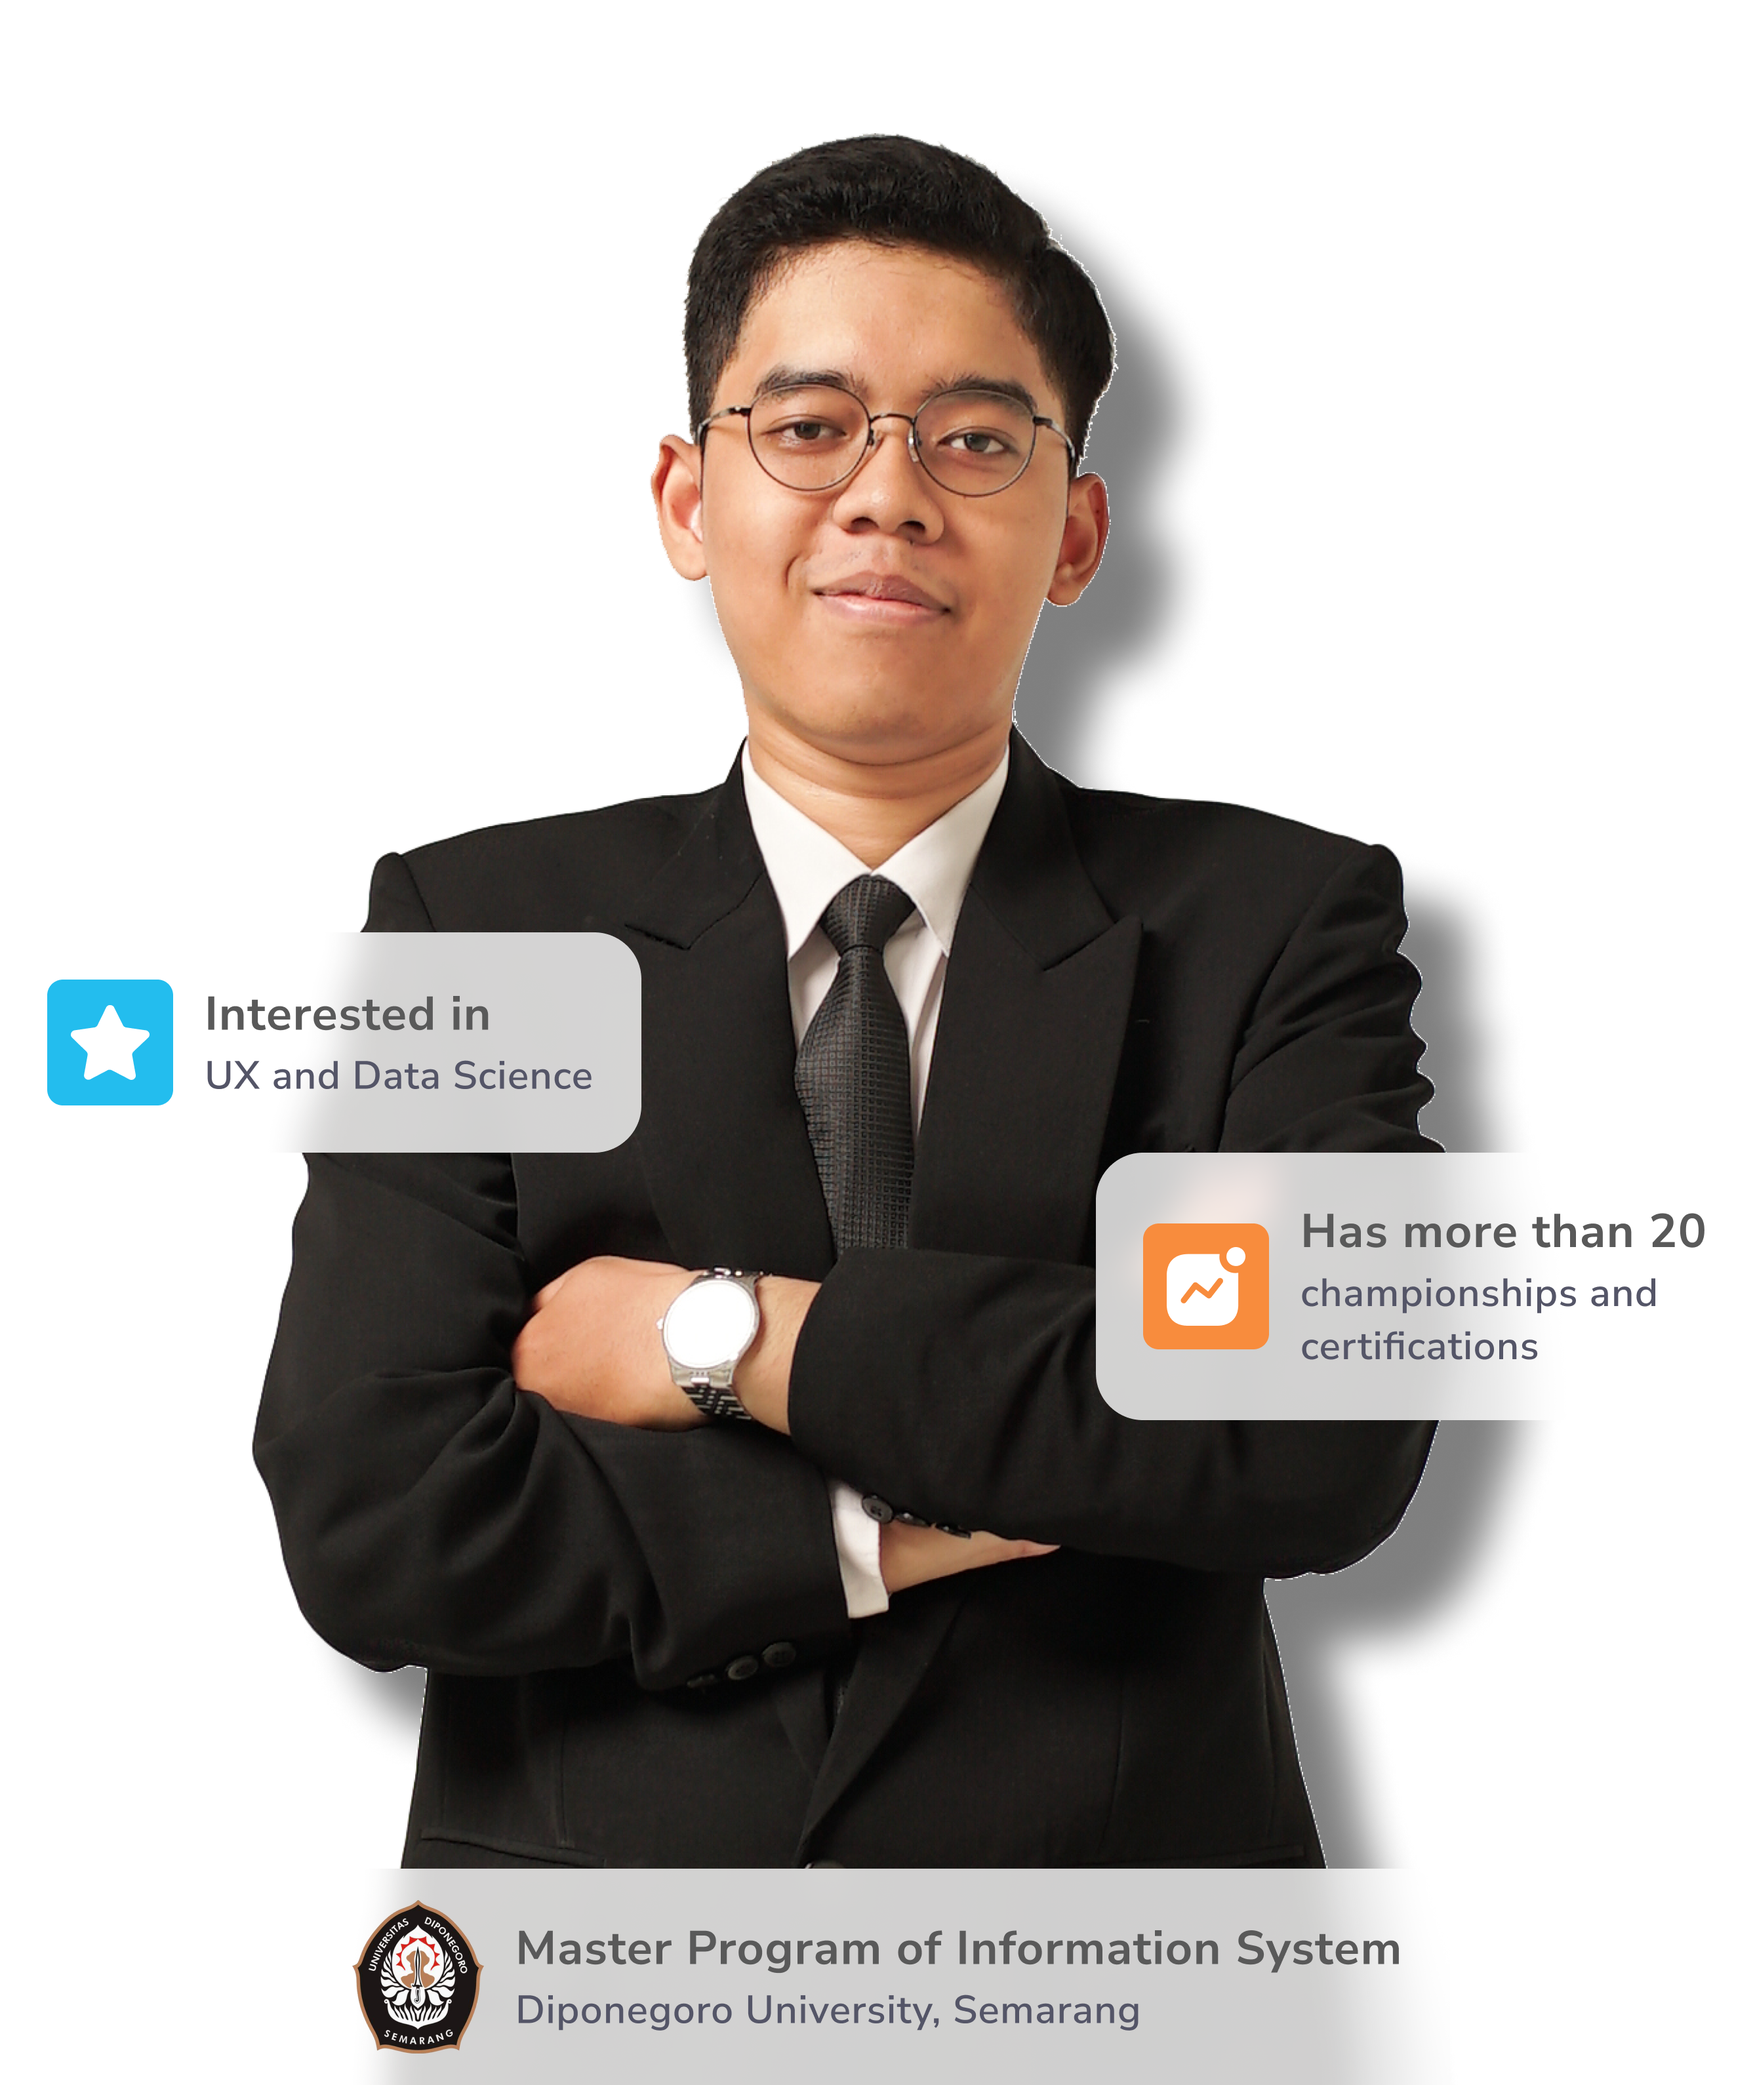
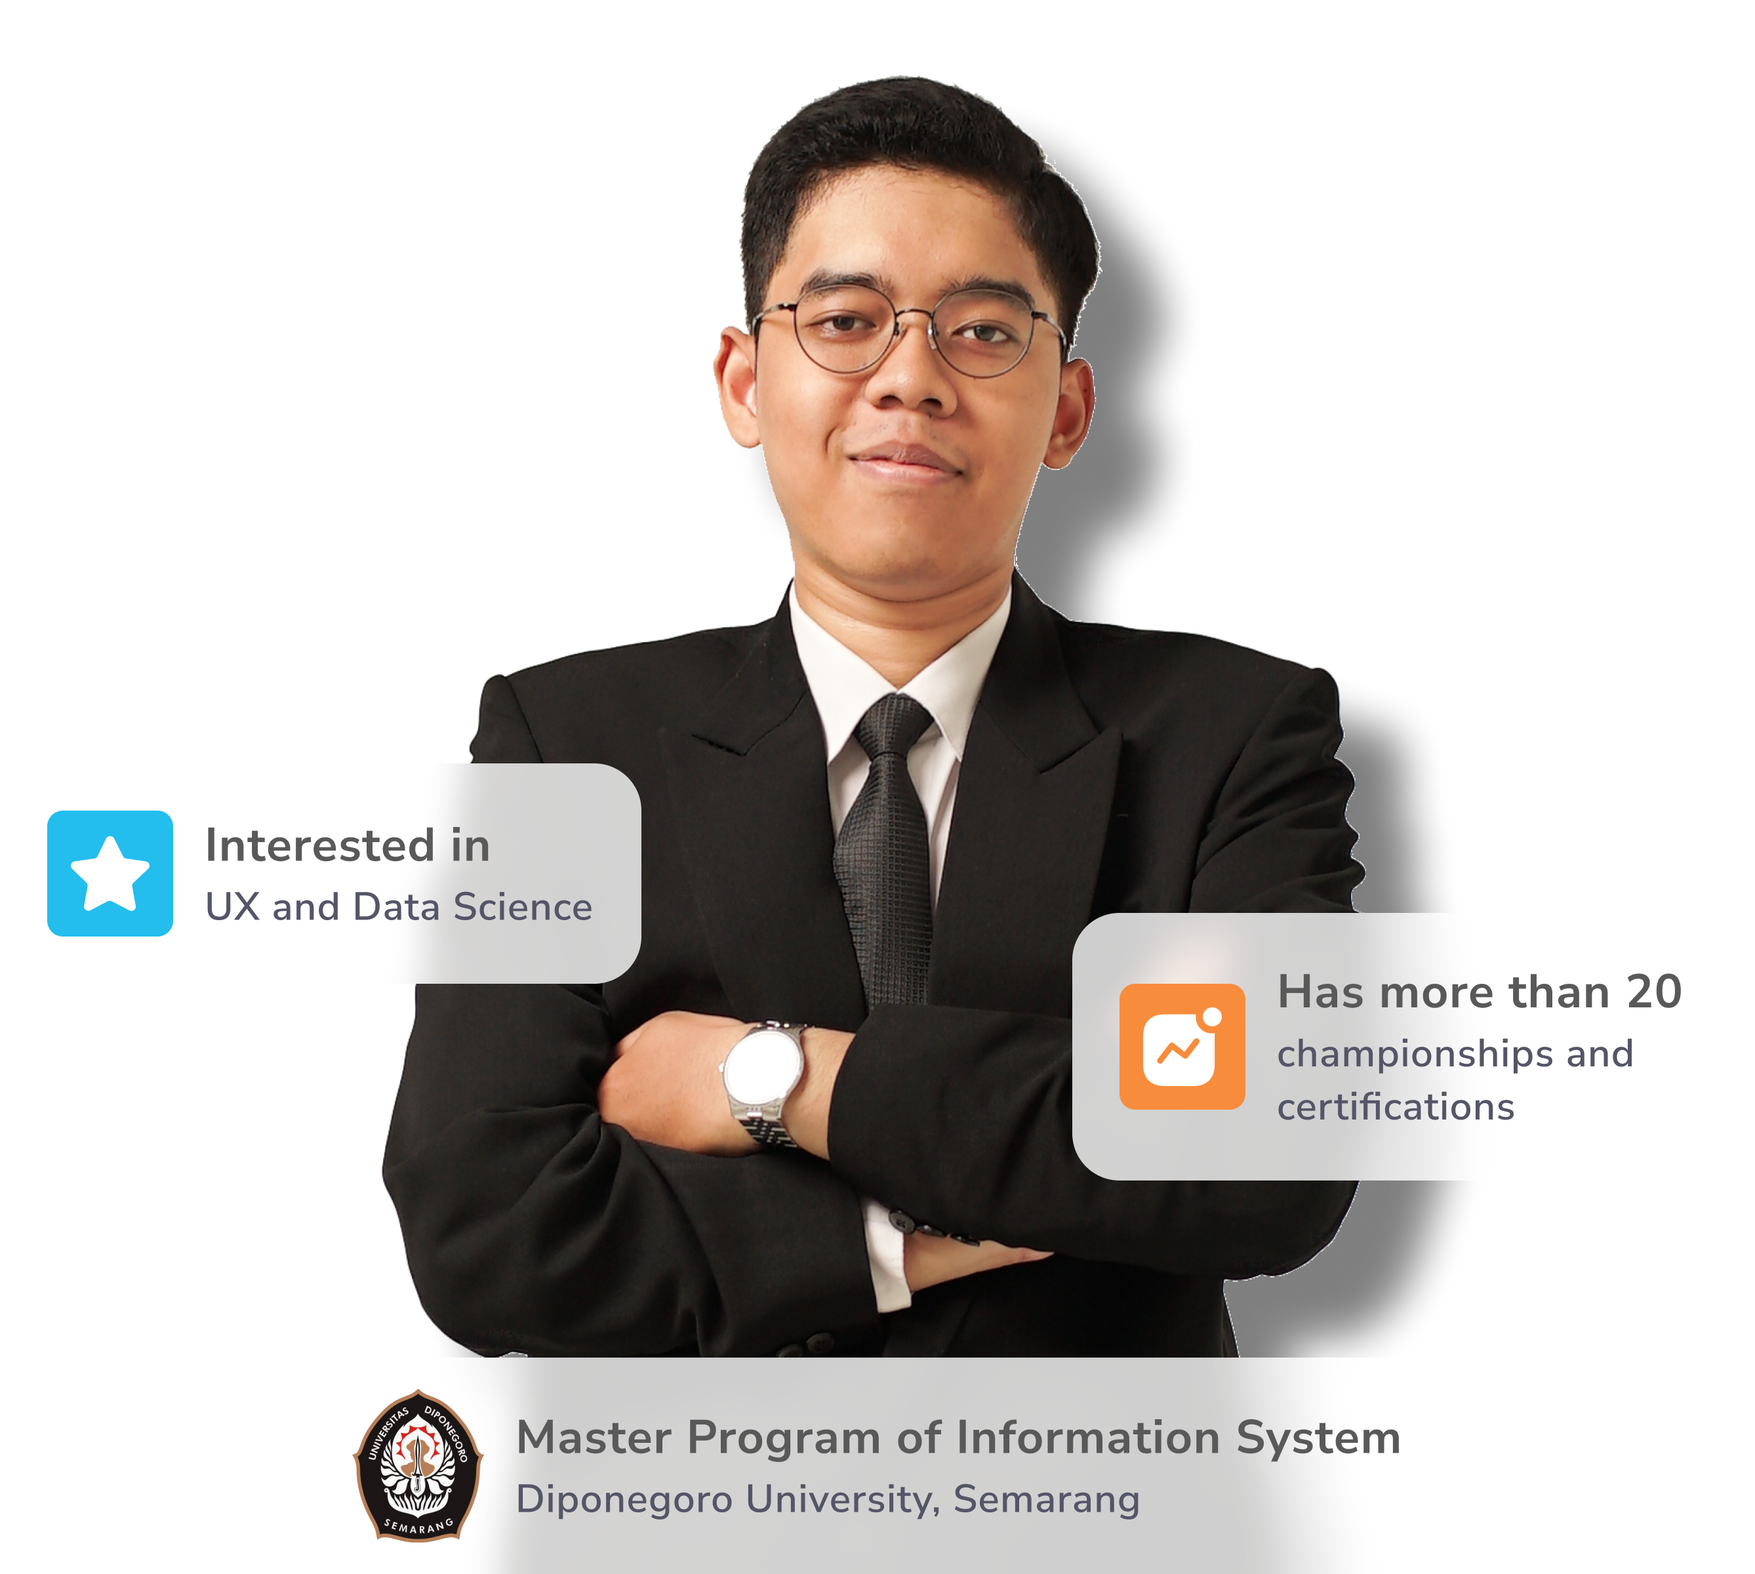
Innitial commit

Changed region(s): [[0.0, 0.0312, 0.9615, 1.0], [0.6203, 0.125, 0.6824, 0.2188], [0.6203, 0.4688, 0.6513, 0.5]]

diff --git a/index.html b/index.html
@@ -110,7 +110,7 @@
               <span>e</span>
             </a>
           </div>
-          <div class="banner-img col-lg-6 col-md-6 align-self-end">
+          <div class="banner-img col-lg-6 col-md-12 align-self-end">
             <img class="img-fluid" src="img/hilman.png" height="100%" alt="" />
           </div>
         </div>
